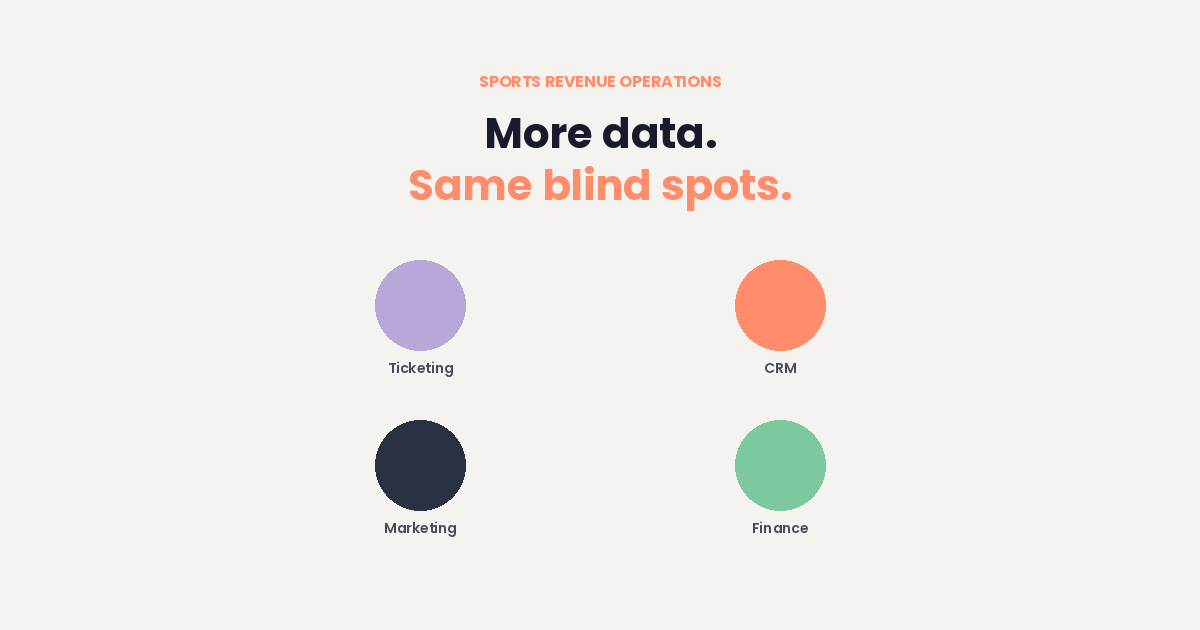
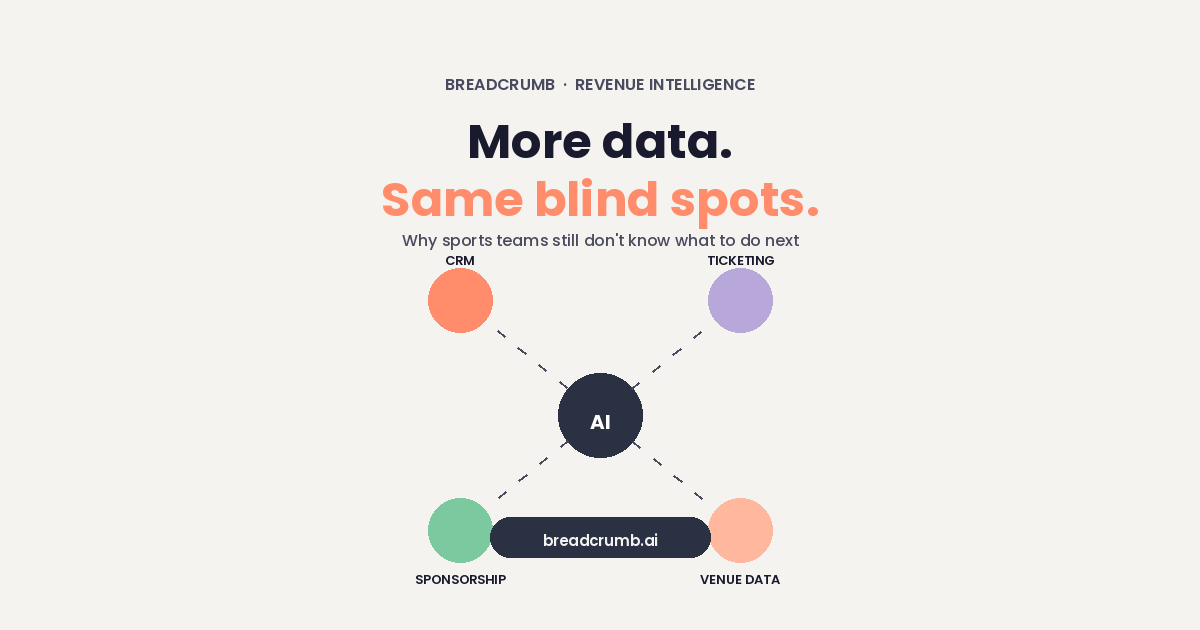
blog post

diff --git a/src/content/drafts/sports-team-data-analytics-challenges.md b/src/content/drafts/sports-team-data-analytics-challenges.md
@@ -1,94 +1,90 @@
 ---
-pubDate: 2026-05-04
+pubDate: 2026-05-19
 author: Victor Tang
 title: Why Sports Teams Have More Data Than Ever and Still Don't Know What to Do Next
-description: "Sports teams invest millions in data infrastructure but revenue leaders still can't answer basic questions. Here's why more data hasn't solved the sports team data analytics challenges holding back revenue growth."
+description: "Sports team data analytics challenges aren't about access — they're about the last mile. Here's why more data isn't solving the revenue leader's real problem."
 image:
-  url: "/blog/images/sports-team-data-blind-spots.png"
-  alt: "Data fragmentation in sports revenue operations"
+  url: "/blog/images/drafts/sports-team-data-blind-spots.png"
+  alt: "Disconnected data nodes representing sports team data analytics challenges"
 tags: ["Revenue Intelligence", "Sports Analytics", "Data Strategy"]
 ---
 
-Every sports organization I talk to has the same story. They've invested in a CRM. They have a ticketing platform. They built dashboards. Some have even hired data analysts. And yet, when I ask the VP of Ticketing or the Chief Revenue Officer a simple question — "Which season ticket members are most at risk of not renewing?" or "What sponsorship partners should we prioritize in the next 60 days?" — the answer is always some version of "I'd have to pull the data." The sports team data analytics challenges I hear about aren't about lacking technology. They're about knowing what to do with it.
+The typical major league sports organization now has more data infrastructure than most mid-sized technology companies. They have a CRM. A ticketing platform. A dedicated analytics team. A data warehouse. Possibly a CDP. Partnerships with vendors promising unified fan insights. A business intelligence tool running dashboards that nobody looks at after the first month.
 
-This is the paradox of modern sports revenue operations. More data than ever. More technology. More dashboards. And somehow, decision-making hasn't gotten faster or clearer. If anything, it's gotten harder.
+And yet, ask a VP of Ticketing what their at-risk STM accounts look like heading into renewal season — the ones who haven't scanned in six weeks, whose email engagement has dropped, and who are sitting on the same seat location since 2019 — and you'll often get: "Let me pull a few reports and get back to you."
 
-The problem isn't the data. It's what happens — or more accurately, what doesn't happen — in the space between the data and the decision. Sports team data analytics challenges aren't about access anymore. They're about the last mile.
+That's the paradox at the center of sports team data analytics challenges today. The investment has never been higher. The frustration hasn't moved.
 
 ## What the Modern Sports Data Stack Actually Looks Like
 
-Most professional sports teams, venues, and entertainment properties have built out some version of a data infrastructure over the last decade. It usually includes:
+A reasonably sophisticated mid-market sports organization runs something like this: Ticketmaster or SeatGeek for ticketing transactions. Salesforce or HubSpot as the CRM of record. A dedicated fan engagement platform. Email marketing through Salesforce Marketing Cloud or a similar tool. Stadium app data capturing in-venue behavior. A third-party sponsorship management system. Point-of-sale data from F&B and merchandise. Social listening and media performance dashboards on top of all of that.
 
-A ticketing system (Ticketmaster, AXS, Paciolan, or something proprietary) that logs every purchase, renewal, and no-show. A CRM (Salesforce, Microsoft Dynamics, or a vertical-specific tool) where account managers track sponsor conversations, premium seat holders, and group sales leads. Marketing automation platforms that capture email opens, landing page visits, and campaign performance. Payment processors, merchandise systems, and concessions data scattered across point-of-sale vendors. Maybe some web analytics, app engagement data, or social media listening tools if the digital team pushed for it.
+On paper, that's a goldmine. In practice, those systems were built by different vendors, licensed at different times, and maintained by different internal teams. They don't talk to each other in real time. The data models don't align. What Ticketmaster calls a "customer" and what Salesforce calls a "contact" are not the same record — and nobody has reconciled that at scale.
 
-On paper, this is a data goldmine. Behavioral signals, transaction history, engagement patterns, sentiment — it's all there. The raw material for revenue intelligence exists in abundance.
+The result is a stack that generates enormous volumes of data and delivers very little clarity to the people who need it most.
 
-But here's the reality. The ticketing data lives in one system. Sponsorship conversations live in another. The marketing team has their own dashboard. Finance reconciles everything in spreadsheets at month-end. Nobody has a single place where they can see a season ticket member's engagement score next to their renewal likelihood next to the last time an account manager reached out.
-
-The sports ticketing data silos aren't a technical accident. They're the natural result of a decade of point solutions, each optimized for one department, none built to talk to each other in a way that actually informs decision-making.
+Critically, this isn't a problem that gets solved by adding another tool. Most organizations already know their systems don't talk to each other. They've run integration projects. They've hired data engineers. They've purchased middleware. The integration work continues — and meanwhile, the revenue team is still reconciling spreadsheets every Monday morning before the weekly pipeline review.
 
 ## Why Dashboards Fail Revenue Leaders
 
-When organizations realize they have fragmented data, the instinct is to build dashboards. Connect the systems. Visualize everything. Put it all in one place.
+This is where sports team data analytics challenges get specific — and it's worth naming precisely, because the industry has spent a decade selling "data-driven culture" as the answer.
 
-So they invest in business intelligence platforms. Tableau, Power BI, Looker — take your pick. They hire someone to pull the data into a warehouse, model it, build some charts. Maybe they create a "Revenue Operations Dashboard" that shows total ticket sales, sponsorship pipeline, renewal rates, and average transaction value.
+Dashboards tell you what happened. Revenue leaders need to know what to do next.
 
-And then the VP of Revenue looks at it and still doesn't know what to do.
+A dashboard that shows season ticket renewal rates by section, broken down by tenure cohort and seat category, is useful for a data analyst building a quarterly presentation. It is not useful for a VP of Revenue who has a sales team of eight people and 600 accounts moving through the renewal pipeline right now. They don't need the breakdown. They need the list: which 40 accounts are highest risk, why, and which rep owns each one.
 
-Because dashboards show you what happened. They don't tell you what to do next. A chart that says "renewal rate is down 8% year-over-year" is useful context. But it doesn't answer the question that actually matters: which accounts are at risk, why, and what action would change the outcome?
+The gap isn't information. It's the translation layer between information and action.
 
-This is where sports CRM data fragmentation becomes a strategic liability, not just an operational nuisance. The data exists. The visualization exists. But the synthesis — the step where you turn observation into prioritized action — is still happening in someone's head. Usually the most experienced person in the room. And it's not scalable.
+Most BI tools — Tableau, Power BI, Looker — are excellent at building the former. They are not designed to produce the latter. That requires a fundamentally different layer: one that sits above the reporting and makes a judgment call about what matters most given the current context, the current window, and the current resources available to act.
 
-Revenue intelligence in sports requires more than dashboards. It requires a system that connects fragmented signals, interprets them in context, and delivers a specific recommendation to a specific person at the right time.
+Revenue leaders have been promised that better dashboards would solve this. The dashboards got better. The problem didn't.
 
 ## The Three Questions Every Revenue Leader Is Actually Asking
 
-Strip away the noise, and there are really only three questions that matter to a CRO, VP of Ticketing, or Head of Partnerships:
+Underneath all of the noise about data strategy and analytics maturity, most CROs and VPs of Revenue at sports organizations are working to answer three questions — every week, sometimes every day.
 
-**What's about to go wrong?** Which renewal is at risk? Which sponsor is unhappy? Which premium account hasn't engaged in 90 days? This is the early warning system. The value here is time — seeing risk before it's obvious, when you still have a window to intervene.
+**Who's at risk, and how soon do I need to move?**
 
-**Where's the upside I'm missing?** Which season ticket holder is a candidate for a suite upgrade? Which corporate account could expand from one sponsorship to three? Which fan segment has high engagement but low spend? This is the opportunity pipeline that most teams never systematically surface because the signals are scattered.
+Whether it's a season ticket member who's been quietly disengaging, a corporate partnership approaching its annual review window, or a premium suite holder who hasn't responded to three outreach attempts — the core anxiety is identifying risk before it becomes a loss. Sports ticketing data silos make this nearly impossible to do systematically. Behavioral signals are scattered across disconnected systems: scan data in one place, email engagement in another, CRM notes in a third. No single surface shows the full picture, and stitching it together manually takes hours no one has.
 
-**What should I do first?** If I have 200 renewals coming up in Q4, ten sponsor conversations in flight, and limited capacity on my partnerships team, where do I focus? What's the ROI of each action? Who should do what, and when? This is prioritization. It's the hardest question, and the one that bad data infrastructure makes impossible to answer.
+**Where is the best near-term opportunity?**
 
-These aren't analytics questions. They're operational questions. The difference is subtle but essential. Analytics tells you what's happening in the aggregate. Operations tells you what to do about it, specifically, today.
+Revenue leaders know that not every account is equal at any given moment. Some partners are primed for an upsell conversation. Some STM accounts are showing engagement signals that make them strong upgrade candidates. Some corporate relationships have enough goodwill built up that a multi-year renewal is a realistic ask right now. But surfacing those signals requires combining multiple data streams in real time — scan data, email engagement, CRM history, transactional spend — in a way that most internal analytics teams aren't resourced to deliver continuously. The result is that opportunities go unworked, not because no one wanted to pursue them, but because no one had the time to find them.
 
-## The Real Gap: From Insight to Action
+**What should my team actually do about it?**
 
-The reason more data hasn't solved the problem is because the bottleneck was never data volume. It was always interpretation and activation.
+This is the most underserved question of all. Even when revenue leaders can identify a risk or an opportunity, the next challenge is determining the right action — which rep should take it, with what message, at what moment, with what supporting context. That answer lives at the intersection of relationship history, deal stage, communication cadence, and timing. No dashboard tells you that. A VP of Revenue has to hold all of that in their head, which is exactly why the Monday morning meeting exists: to manually synthesize everything before the week begins.
 
-Think about what happens in a typical revenue meeting. Someone presents a slide showing churn by segment. Another person talks about pipeline coverage. Someone else has a hunch about a few high-value accounts. The group discusses. They make a call. Maybe they assign a few follow-ups.
+## The Real Gap: The Last Mile Between Insight and Action
 
-That decision-making process — the moment where data becomes action — is still entirely manual. It depends on someone being in the room who knows the data, understands the business context, and has the judgment to synthesize both. It's artisanal. It doesn't scale. And it breaks the moment that person leaves.
+The framing that has dominated the industry — that sports teams need to integrate their data — is not wrong. Sports CRM data fragmentation is a real and costly problem, and integration work matters. But solving the integration problem is a prerequisite for the real solution, not the solution itself.
 
-The missing layer is intelligence. Not analytics, not reporting — intelligence. A system that continuously monitors every account, sponsor, and revenue stream; synthesizes behavioral, transactional, and contextual signals; identifies what matters; and surfaces a recommendation that is specific, prioritized, and actionable.
+The actual problem is the last mile.
 
-When I say "actionable," I mean this: "Sponsorship account [Company X] has not responded to the last two check-ins, engagement with their activation assets is down 40% from last quarter, and their renewal is in 60 days. Priority: high. Recommended action: Executive-level outreach in the next 7 days. Suggested talking points: [specific points based on their engagement history]."
+Imagine you gave a VP of Ticketing perfect, real-time access to every data source across their organization. Every system, fully integrated, available in a single pane of glass. They would still need to spend hours synthesizing that data before they could confidently say: "I'm calling these ten accounts this week because they're the highest priority." The bottleneck isn't access. It's the cognitive work required to translate access into a prioritized action.
 
-That's not a dashboard. That's intelligence. And the difference is everything.
+That last-mile problem is where most analytics investments stall. The tools are implemented. The dashboards are built. The data is mostly connected. And still, revenue leaders are pulling exports, building pivot tables, and manually assigning priority scores before every significant planning session.
+
+This is the specific challenge that revenue intelligence in sports is designed to address — not by adding another reporting layer, but by replacing the interpretation work that currently lives in someone's head with a system that does it continuously, automatically, and with context.
+
+### What the Last Mile Actually Costs
+
+The cost shows up in three ways. First, delayed decisions: by the time a risk signal gets synthesized from scattered data sources into a clear recommendation, the optimal intervention window has often already closed. A partner who was wavering three weeks ago has already drafted a non-renewal letter. Second, rep capacity: when your best salespeople spend significant time preparing rather than acting, you're paying premium labor costs for work that a system should be doing. Third, inconsistent prioritization: without a systematic process for surfacing the highest-value actions, individual reps make different priority calls based on gut feel and recency bias — which means the accounts that shout the loudest get attention, not necessarily the ones that matter most.
 
 ## What Changes When Intelligence Is Actionable
 
-The organizations that have closed this gap — and they're still the minority — operate differently. They don't have better data. They have better interpretation of the data they already have.
+The shift from data access to actionable revenue intelligence looks incremental from the outside but changes everything about how a revenue organization operates week to week.
 
-Their revenue leaders don't start the day by opening five dashboards and trying to triangulate priority. They start with a ranked list of what matters most today, with the context they need to act on it. Their account managers don't guess which sponsors to focus on. They're told, based on signals that no single human could track at scale.
+Instead of a VP of Ticketing spending Sunday evening pulling reports to prepare for Monday's team meeting, they open a prioritized summary: three STM accounts in the lower bowl have missed four consecutive games; email engagement has dropped 60% over the past 45 days; renewal windows open in 28 days. Two of the three are owned by the same rep who already has 20 accounts in active renewal conversations. The recommendation is specific: redistribute one account before the week starts, and initiate direct outreach this week — not next.
 
-Renewal risk gets flagged 90 days out, not 10 days out, when it's too late to do anything meaningful. Upsell opportunities get identified while there's still time in the relationship cycle to have the conversation naturally. Resources get allocated to the highest-leverage actions, not the loudest ones.
+That is not a dashboard. That is intelligence. One changes a meeting agenda; the other changes a business outcome.
 
-This is what revenue intelligence actually looks like when it's working. It's not magic. It's the systematic application of judgment that used to require the most experienced person in the room to every decision that used to get made ad hoc.
+The organizations beginning to close the gap on sports team data analytics challenges are not necessarily the ones with the most sophisticated data infrastructure. They're the ones investing in the layer between their data and their decisions — the system that does the synthesis work continuously, surfaces the right signal at the right moment, and tells the right person what to do next.
 
-The best part? The data required to do this already exists in most organizations. The ticketing system knows who's engaging and who's not. The CRM knows which conversations are stalled. The marketing platform knows which accounts are responsive. The gap isn't collection. It's connection, interpretation, and activation.
+The data has been there for years. The last mile is where the real work starts.
 
-## The Path Forward
+---
 
-If you're a revenue leader in sports or live entertainment, you probably recognize this story. You've made the investments. You have the systems. And yet, the core decisions still feel like guesswork.
+If your revenue team is sitting on data and still spending hours preparing for the conversations your reps should already be having, the problem isn't your data stack.
 
-The fix isn't another dashboard. It's not more data, more integrations, or more analysts. The fix is a layer that sits between your existing systems and your team's decision-making — one that does the work of synthesis, prioritization, and recommendation automatically, continuously, and at scale.
-
-Sports team data analytics challenges aren't going away. The data will keep growing. The systems will keep multiplying. But the teams that win are the ones that stop trying to manage data and start using intelligence to drive action.
-
-That's the shift. And it's already happening.
-
-If your revenue operations feel like they're running on dashboards and instinct, not intelligence, we should talk. Breadcrumb is built specifically for this — turning fragmented revenue data into prioritized action for sports teams, venues, and entertainment properties.
-
-Learn more at [breadcrumb.ai/contact](https://breadcrumb.ai/contact).
+[Talk to Breadcrumb →](https://breadcrumb.ai/contact)

diff --git a/src/content/drafts/sports-sponsorship-roi-analytics-renewal.md b/src/content/drafts/sports-sponsorship-roi-analytics-renewal.md
@@ -1,0 +1,134 @@
+---
+pubDate: 2026-05-19
+author: Victor Tang
+title: Why Most Sports Sponsorship Renewals Are Built on Guesswork
+description: "Sports teams struggle to prove sponsorship ROI because their data lives in silos. Here's what the smartest partnership teams do differently."
+image:
+  url: "/blog/images/drafts/sports-sponsorship-roi-analytics.png"
+  alt: "Sports sponsorship ROI analytics dashboard showing partnership revenue data"
+tags: ["Revenue Intelligence", "Sports Partnerships", "Sponsorship Analytics"]
+---
+
+## Why Most Sports Sponsorship Renewals Are Built on Guesswork
+
+Imagine you're the VP of Partnerships at a mid-market sports franchise. Renewal season is here. You have a meeting in three days with a title sponsor who wrote you a seven-figure check last year, and they want to know what they got for it.
+
+You open your laptop and start building the deck.
+
+Broadcast impressions come from one vendor report. Social reach lives in a spreadsheet someone pulled from Sprout. In-venue activation data is somewhere in an email chain with your experiential agency. Ticket redemption numbers — the ones that prove how many of that sponsor's customers actually showed up — require a custom pull from your CRM that takes two days.
+
+By the time you walk into that renewal meeting, you've spent 40 hours stitching together a story that is, at best, directionally accurate. You hope the sponsor doesn't ask a question you can't answer in the room.
+
+This is how sports sponsorship ROI analytics actually work at most organizations. Not as a capability — as a scramble.
+
+---
+
+## The Measurement Problem Nobody Talks About
+
+The industry conversation about sports sponsorship ROI analytics almost always happens from the brand's perspective. Shikenso, Zoomph, Relo Metrics — the category of sponsorship measurement tools has expanded rapidly, and nearly all of them are built for the sponsor trying to validate their investment.
+
+That's the wrong side of the table.
+
+The harder problem — the one that actually determines whether seven-figure deals renew — lives inside the team. Your VP of Partnerships doesn't need another vendor dashboard. They need a single view of what all their existing data says, assembled quickly enough to be useful before the renewal conversation, not after.
+
+According to a 2025 industry study, 23% of sponsorship revenue is lost annually due to poor fulfillment tracking and missed renewal opportunities. For a team generating $2M in sponsorship revenue, that's $460,000 left on the table every year — not because sponsors are dissatisfied, but because the team couldn't clearly demonstrate the value it delivered.
+
+The problem isn't data. Every team has data. The problem is that no one owns the synthesis.
+
+---
+
+## Where the Data Actually Lives (And Why It Stays There)
+
+A typical mid-market sports franchise manages partnership data across at least six separate systems:
+
+**CRM** holds contact history, contract terms, and notes from account managers. It rarely contains anything about actual asset performance.
+
+**Broadcast monitoring tools** — third-party platforms like Relo Metrics or Nielsen — track logo exposure across linear TV, streaming, and social video. This data is expensive, arrives on its own cadence, and is formatted for the vendor's output, not your reporting needs.
+
+**Social analytics platforms** aggregate reach, impressions, and engagement metrics for branded content. Every platform exports differently. Aggregating them manually is a part-time job.
+
+**Ticketing and CRM data** contains information about who bought tickets using sponsor-specific promo codes, or which fans attended sponsored experiences. This is the most valuable data in the building for proving sponsor ROI — and it's almost never in the same place as the broadcast numbers.
+
+**In-venue and experiential data** — foot traffic, activation scans, photo captures — often lives with the activation vendor, not with the team at all.
+
+**Email and event data** tracks sponsor-presented communications: open rates, click-throughs, co-branded send performance.
+
+None of these systems talk to each other. And in most organizations, the person responsible for renewal outcomes — the VP of Partnerships — has read-only access to most of them, if any access at all.
+
+---
+
+## What Sports Sponsorship ROI Analytics Should Actually Look Like
+
+The best partnership teams aren't the ones with the most sophisticated tools. They're the ones who have a consistent, fast way to answer three questions before every renewal conversation:
+
+**1. What did we deliver against what we promised?**
+
+Every sponsorship agreement has a media value estimate — impressions, activations, audience reach. The first job is comparing actuals to commitments. Most teams do this once a year, manually, before renewals. The teams that retain sponsors at a higher rate do it quarterly, proactively, so they can surface overperformance and correct underperformance before the contract anniversary.
+
+**2. What did the sponsor's customers actually do?**
+
+This is the question that closes renewals, and it's the one most teams can't answer. If a bank sponsor runs a promo code promotion and 3,200 ticketholders redeem it, that's a conversion story. If those redemptions skew toward 25–34-year-old households in the sponsor's target geography, that's an audience alignment story. If those fans also attended three or more events during the season, that's a loyalty story.
+
+The data for all three of those stories exists in the team's own ticketing and CRM system. It's almost never assembled and presented in a sponsorship context.
+
+**3. What's the renewal risk, and who needs attention now?**
+
+Sponsorship renewals don't fail at the renewal meeting. They fail six months earlier when a sponsor quietly stops seeing value and starts taking calls from competing properties. The teams that catch this early — through engagement signals, fulfillment gaps, or benchmark comparisons against similar-tier partnerships — have time to course-correct. The teams that find out in the meeting don't.
+
+---
+
+## The Operational Gap Between Data and Decision
+
+Here's what's interesting about the sponsorship intelligence category: the measurement tools exist. Relo Metrics tracks broadcast exposure with computer vision. YouGov measures brand lift. CRM platforms capture every touchpoint. The infrastructure is there.
+
+What's missing is the layer between the data and the decision-maker.
+
+Right now, that layer is a partnership coordinator with an Excel file and a tight deadline.
+
+The VP of Partnerships shouldn't need to request a custom report from three different departments to answer basic questions about their book of business. They should be able to ask those questions directly — in natural language, against the team's own data — and get an answer in minutes.
+
+"What was the total reach we delivered to Sponsor A this season, broken down by asset type?"
+
+"Which of our mid-tier partners are underperforming against their contracted media value?"
+
+"How many of Sponsor B's promo code redeemers also attended premium events?"
+
+These are not sophisticated analytics questions. They're the questions that every renewal conversation requires. The reason they take days to answer isn't a technology problem — it's a data access problem.
+
+---
+
+## What Smart Partnership Teams Are Building Now
+
+The organizations getting this right have stopped waiting for a single integrated platform to solve the fragmentation problem. Instead, they've invested in a thin intelligence layer that connects what they already have.
+
+The pattern looks like this:
+
+Ticketing data, CRM data, and social analytics are brought into a single queryable environment — not necessarily a new database, but a unified view that a non-technical revenue leader can actually use. That environment gets an AI layer: not a chatbot, but a system that can translate questions about partnership performance into queries against those connected data sources, and translate the output back into a clear conclusion.
+
+The output isn't a dashboard. It's a finding. "Sponsor A received 118% of contracted media value this season, driven primarily by broadcast logo exposure during home game broadcasts. Audience skew matches their stated target demographic (women 28–45). Recommend leading the renewal conversation with audience match data and proposing a broadcast-first package increase."
+
+That's the difference between sports sponsorship ROI analytics as a reporting function and sports sponsorship ROI analytics as a revenue function.
+
+---
+
+## The Renewal Meeting Changes When the Data Is Ready Ahead of Time
+
+The teams that retain their major partners at the highest rates share one characteristic: they walk into renewal conversations already knowing the answer. They've done the analysis in advance, identified the value story, anticipated the objections, and built the proposal around what the data actually supports.
+
+That posture is only possible when the VP of Partnerships isn't personally responsible for pulling and assembling that data. When the intelligence layer does that work — continuously, not just before renewals — the relationship changes. The conversation moves from "here's what we delivered" to "here's what we should do next, and here's why the data supports it."
+
+Sponsors renew when they believe the team understands their business. That belief doesn't come from a slide deck. It comes from the quality of the analysis the team brings to the conversation.
+
+The data to support that analysis already exists in your organization. The question is whether anyone can get to it fast enough to matter.
+
+---
+
+## What This Means for Your Partnership Team
+
+If your VP of Partnerships is spending the week before major renewals manually assembling reports from six different systems, that's not a bandwidth issue — it's a signal that your sponsorship revenue function is operating without the infrastructure it needs.
+
+The floor-level fix is data consolidation: getting ticketing, CRM, broadcast, and social data into a single place that your partnership team can actually query. The higher-value move is adding an intelligence layer on top of that data — one that synthesizes what the team needs to know and surfaces it in time to act.
+
+That's what Breadcrumb is built for. Not dashboards your team has to interpret. A specific answer, for the right person, before the conversation that determines whether your biggest partners stay.
+
+**If your partnership renewal process still starts with a spreadsheet, it's time to change that.** [Talk to us at Breadcrumb.](https://breadcrumb.ai/contact)
